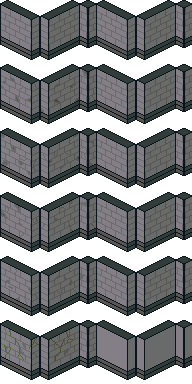
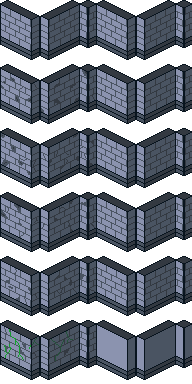
start optimize hallways, fix colour palette

diff --git a/world/dungeon_gen.py b/world/dungeon_gen.py
@@ -8,9 +8,9 @@ ROOM_MAX_SIZE = 7
 
 def generate_dungeon(world, width, height, room_count):
   world, rooms = create_rooms(world, width, height, room_count)
-  world = place_hallways(world, rooms)
+  world, doors = place_hallways(world, rooms)
   start_room, end_room = get_start_and_end_rooms(rooms)
-  return world, rooms, start_room, end_room
+  return world, rooms, start_room, end_room, doors
 
 def create_rooms(world, width, height, amount):
   # Returns the updated world along with a list of rooms
@@ -105,23 +105,63 @@ def find_good_hallways(rooms):
 
 def place_hallways(world, rooms):
   origins = list(map(lambda room: room.origin, rooms))
+  doors = []
   hallways = find_good_hallways(origins)
   for edge in hallways:
-    for x,y in edge.path:
-      world[x][y] = FLOOR
-    
     room1 = None
     room2 = None
     for room in rooms:
-      if edge.touches(room.origin):
-        if room1 == None:
-          room1 = room
-        else:
-          room2 = room
+      if edge.vertex_a == room.origin:
+        room1 = room
+      elif edge.vertex_b == room.origin:
+        room2 = room
     room1.add_neighbor(room2)
     room2.add_neighbor(room1)
-    
-  return world
+
+# Hallway optimization and door finding algorithm
+# Get a list of tiles cardinally adjacent to the start room and the end room. Then for each tile in the path:
+# - If the tile is already a floor, continue
+# - If the tile is in the end room list, turn into floor, mark as door, and break
+# - If the tile is in the start room list AND the next tile is NOT in the start room list, turn into floor and mark as door
+# - If the tile is in the start room list AND the next tile is ALSO in the start room list, continue
+    tiles1 = room1.get_adjacent_tiles()
+    tiles2 = room2.get_adjacent_tiles()
+    for i in range(edge.length):
+      x,y = edge.path[i]
+
+      if world[x][y] == FLOOR:
+        continue
+
+      if (x,y) in tiles2:
+        world[x][y] = FLOOR
+
+        if not_adjacent_to_door(doors, x, y):
+          doors.append((x,y))
+        break
+
+      if i < edge.length - 1:
+        x2,y2 = edge.path[i+1]
+        if (x,y) in tiles1:
+          if (x2,y2) in tiles1:
+            continue
+          else:
+            world[x][y] = FLOOR
+            if not_adjacent_to_door(doors, x, y):
+              doors.append((x,y))
+        else:
+          world[x][y] = FLOOR
+  return world, doors
+
+def not_adjacent_to_door(doors, sx, sy):
+  n = []
+  for x in range(sx-1, sx+2):
+    for y in range(sy-1, sy+2):
+      n.append((x,y))
+  
+  for t in n:
+    if t in doors:
+      return False
+  return True
 
 # The start and end rooms should be the rooms with the largest number of intervening rooms
 def get_start_and_end_rooms(rooms):

diff --git a/world/world_builder.py b/world/world_builder.py
@@ -19,6 +19,7 @@ class World:
     self.players = []   # A subset of creatures
     self.rooms = []
     self.items = {}     # A hash of location: inventory
+    self.features = {}
     self.start_room = None
     self.end_room = None
     self.combat_queue = None
@@ -26,6 +27,10 @@ class World:
 
   def set_rooms(self, rooms):
     self.rooms = rooms
+  
+  def set_doors(self, doors):
+    for point in doors:
+      self.features[point] = True
   
   def finalize_tiles(self, initial_array):
     from tileset import FLOOR_TILESETS, WALL_TILESETS # Kind of lazy here
@@ -227,10 +232,12 @@ class World:
   def print_world(self):
     for y in range(self.height):
       for x in range(self.width):
-        if self.is_floor(x,y):
-          print(str(FLOOR), end='')
+        if (x,y) in self.features:
+          print('+', end='')
+        elif self.is_floor(x,y):
+          print('.', end='')
         else:
-          print(str(WALL), end='')
+          print('#', end='')
       print()
     print()
 
@@ -254,6 +261,21 @@ class Room:
         points.append((x,y))
     return points
   
+  def get_adjacent_tiles(self):
+    points = []
+    x1, y1 = self.p1
+    x2, y2 = self.p2
+    x_points = list(range(x1, x2))
+    y_points = list(range(y1, y2))
+
+    for x in x_points:
+      points.append((x, y1-1))
+      points.append((x, y2))
+    for y in y_points:
+      points.append((x1-1, y))
+      points.append((x2, y))
+    return points
+      
   def is_explored(self, world: World):
     points = self.get_tiles()
     for p in points:
@@ -280,9 +302,10 @@ def generate_maze(width, height):
 # Will generate at most the number of rooms specified, constrained by world size
 def generate_dungeon(width, height, rooms):
   initial_array = make_empty_initial_array(width, height)
-  initial_array, rooms, start_room, end_room = dungeon_gen.generate_dungeon(initial_array, width, height, rooms)
+  initial_array, rooms, start_room, end_room, doors = dungeon_gen.generate_dungeon(initial_array, width, height, rooms)
   world = World(initial_array)
   world.set_rooms(rooms)
+  world.set_doors(doors)
   world.start_room = start_room
   world.end_room = end_room
   return world

diff --git a/tileset.py b/tileset.py
@@ -1,7 +1,7 @@
 import pygame
 
 # Keep track of how many are even available in the files
-WALL_TILESETS = 6
+WALL_TILESETS = 8
 FLOOR_TILESETS = 5
 
 # Load all relevant images and assets at the start and store them here so that we can quickly access them without
@@ -30,6 +30,8 @@ class TileSet:
     self.initialize_ui()
     self.misc = {}
     self.initialize_misc()
+    self.features = {}
+    self.initialize_features()
 
     # Fonts do not have to be initialized, they are dynamically loaded when needed
     self.fonts = {}
@@ -237,3 +239,10 @@ class TileSet:
     self.ui["map_enemy_dot"] = map_icons.subsurface((0,8,24,8))
     self.ui["map_items_dot"] = map_icons.subsurface((24,0,24,8))
     self.ui["map_floor_orange"] = map_icons.subsurface((0,16,32,16))
+
+  def initialize_features(self):
+    full = pygame.image.load("assets/features.png")
+    self.features["door_closed_w"] = full.subsurface((0,0,40,60))
+    self.features["door_closed_e"] = full.subsurface((40,0,40,60))
+    self.features["door_open_w"] = full.subsurface((0,64,40,60))
+    self.features["door_open_e"] = full.subsurface((40,64,40,60))
